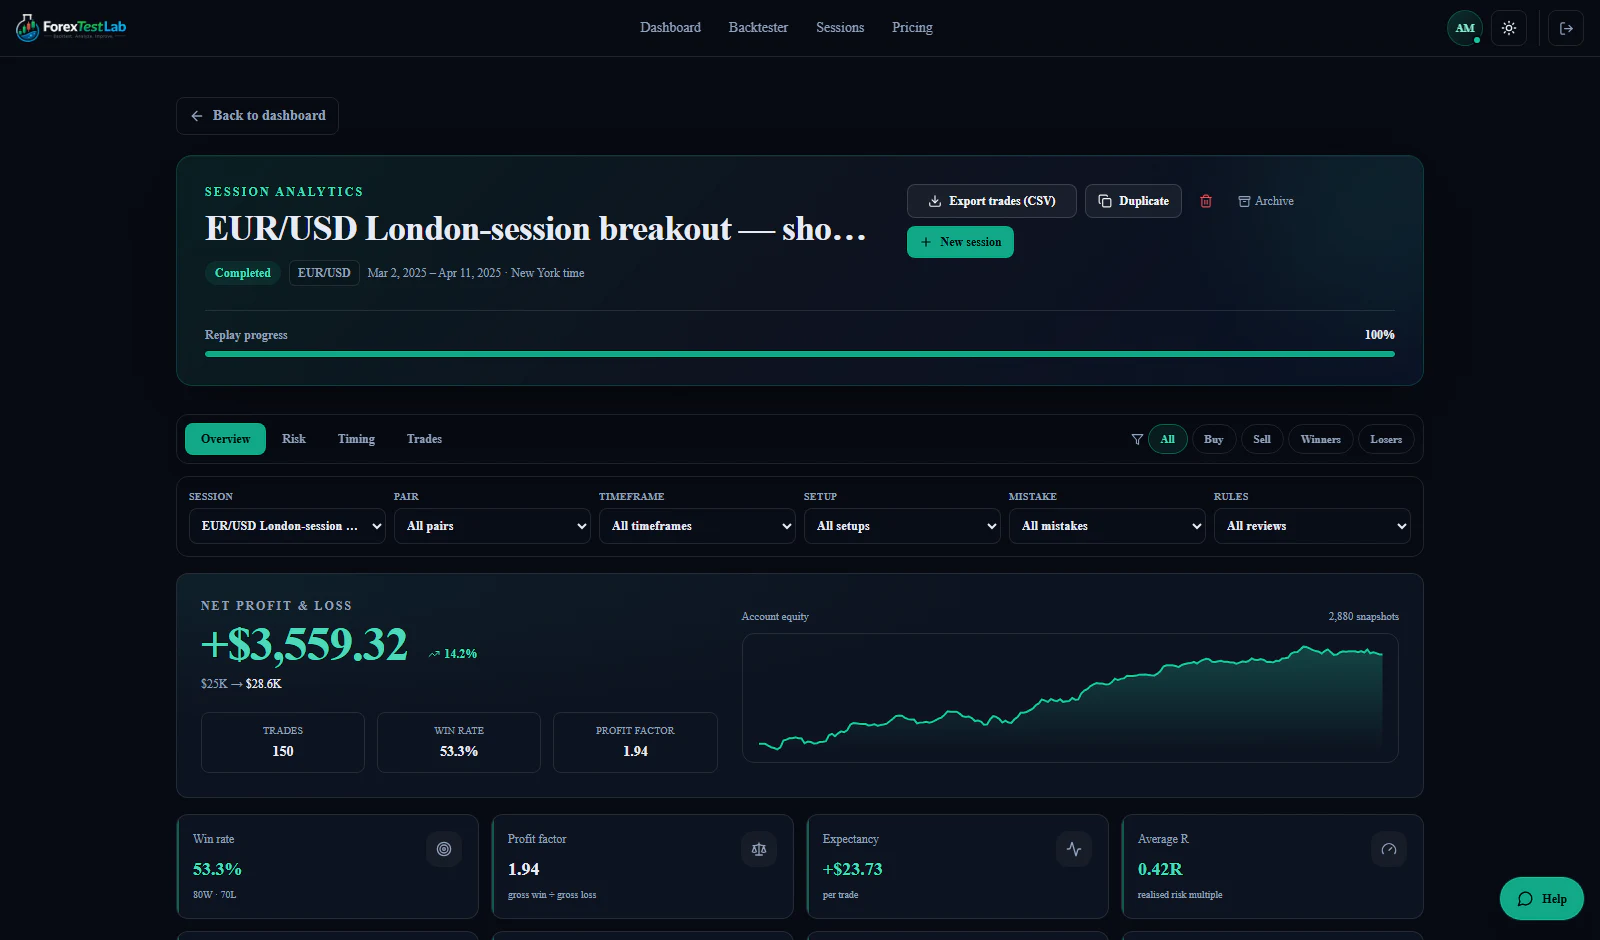
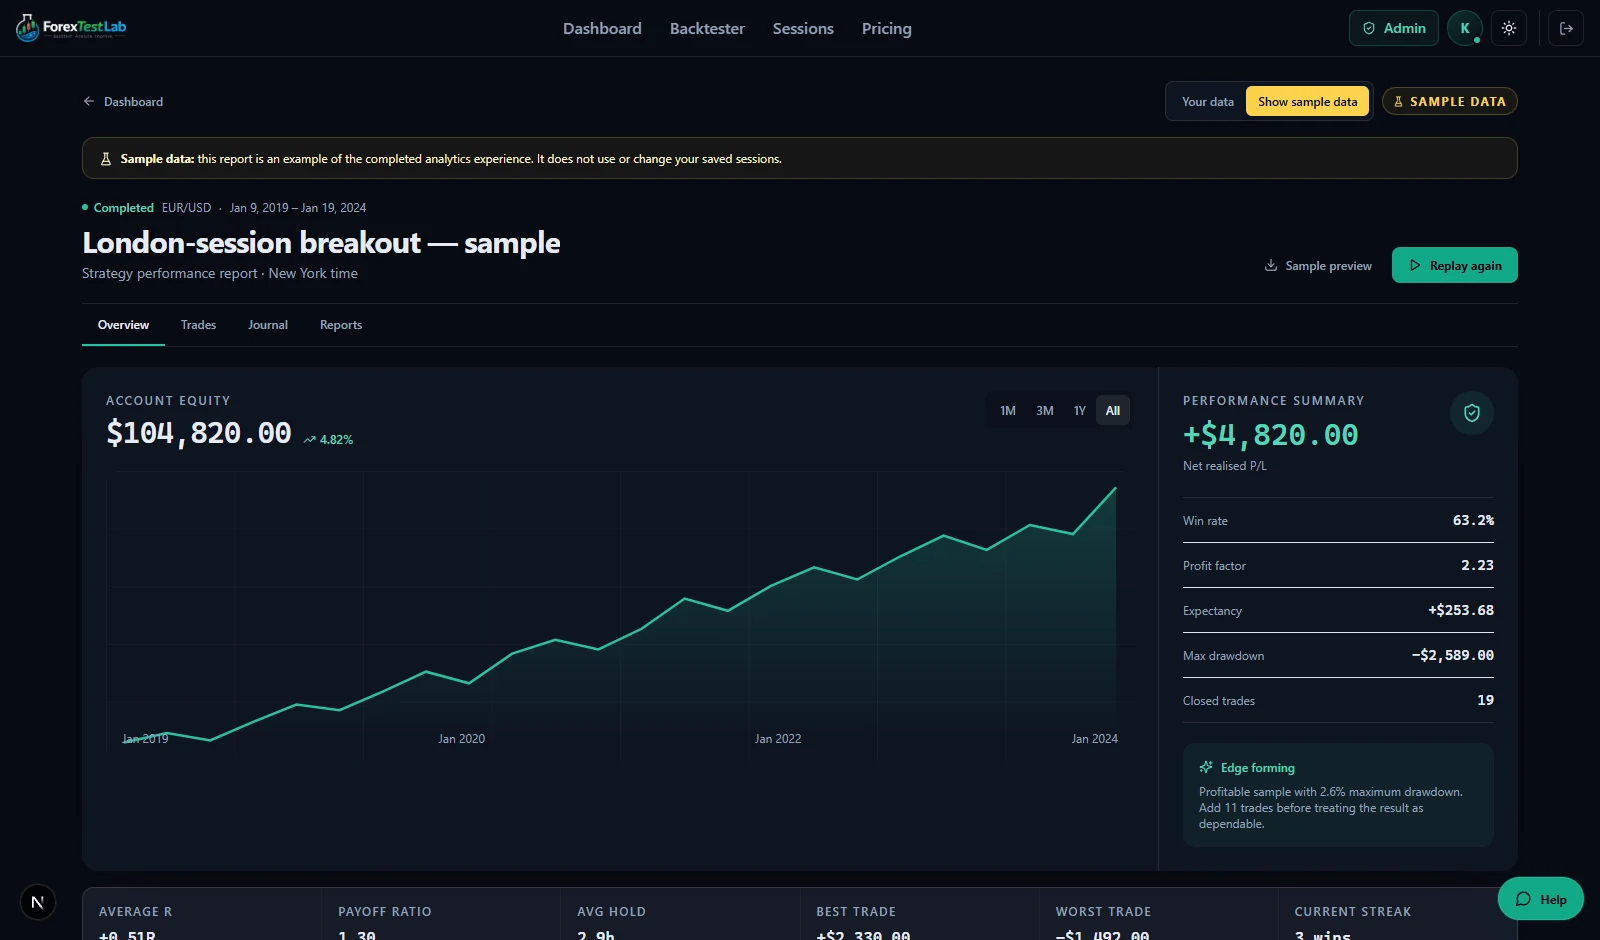
Refresh product terminology and screenshots

diff --git a/src/components/app/AnalyticsDesignPrototype.tsx b/src/components/app/AnalyticsDesignPrototype.tsx
@@ -327,7 +327,7 @@ function normalizedPath(values: number[], width = 920, height = 220) {
 function PrototypeBadge() {
   return (
     <span className="inline-flex items-center gap-1.5 rounded-full border border-amber-300/25 bg-amber-300/[0.07] px-2.5 py-1 text-[10px] font-bold uppercase tracking-[0.12em] text-amber-200">
-      <FlaskConical size={11} aria-hidden /> Demo data
+      <FlaskConical size={11} aria-hidden /> Sample data
     </span>
   );
 }
@@ -365,14 +365,14 @@ export function AnalyticsDesignPrototype({
       <div className="flex flex-wrap items-center justify-between gap-3">
         {onClose ? <button type="button" onClick={onClose} className="inline-flex items-center gap-2 text-xs font-semibold app-muted hover:text-[var(--app-text)]"><ArrowLeft size={14} aria-hidden /> Continue session</button> : <Link href="/app" className="inline-flex items-center gap-2 text-xs font-semibold app-muted hover:text-[var(--app-text)]"><ArrowLeft size={14} aria-hidden /> Dashboard</Link>}
         <div className="flex flex-wrap items-center gap-2">
-          {mode === "live" && <div className="inline-flex rounded-lg border app-border bg-[var(--app-panel)] p-1" aria-label="Analytics data source"><button type="button" onClick={() => setShowDemoData(false)} className={`rounded-md px-3 py-1.5 text-[10px] font-semibold transition-colors ${!showDemoData ? "bg-brand-500 text-surface-950" : "app-muted hover:text-[var(--app-text)]"}`}>Your data</button><button type="button" onClick={() => setShowDemoData(true)} className={`rounded-md px-3 py-1.5 text-[10px] font-semibold transition-colors ${showDemoData ? "bg-amber-300 text-surface-950" : "app-muted hover:text-[var(--app-text)]"}`}>Show demo data</button></div>}
+          {mode === "live" && <div className="inline-flex rounded-lg border app-border bg-[var(--app-panel)] p-1" aria-label="Analytics data source"><button type="button" onClick={() => setShowDemoData(false)} className={`rounded-md px-3 py-1.5 text-[10px] font-semibold transition-colors ${!showDemoData ? "bg-brand-500 text-surface-950" : "app-muted hover:text-[var(--app-text)]"}`}>Your data</button><button type="button" onClick={() => setShowDemoData(true)} className={`rounded-md px-3 py-1.5 text-[10px] font-semibold transition-colors ${showDemoData ? "bg-amber-300 text-surface-950" : "app-muted hover:text-[var(--app-text)]"}`}>Show sample data</button></div>}
           {demo ? <PrototypeBadge /> : <span className="inline-flex items-center gap-1.5 rounded-full bg-brand-400/10 px-2.5 py-1 text-[10px] font-bold uppercase tracking-[0.12em] text-brand-300"><ShieldCheck size={11} aria-hidden /> Session analytics</span>}
         </div>
       </div>
 
       {demo && <div role="note" className="mt-4 flex items-start gap-2 rounded-xl border border-amber-300/20 bg-amber-300/[0.06] px-4 py-3 text-xs text-amber-100">
         <FlaskConical size={14} className="mt-0.5 shrink-0" aria-hidden />
-        <span><strong>Demo data:</strong> this report is an example of the completed analytics experience. It does not use or change your saved sessions.</span>
+        <span><strong>Sample data:</strong> this report is an example of the completed analytics experience. It does not use or change your saved sessions.</span>
       </div>}
       {!demo && notice}
 
@@ -382,11 +382,11 @@ export function AnalyticsDesignPrototype({
             <span className={`inline-flex items-center gap-1.5 font-semibold ${demo || status === "finished" ? "text-brand-300" : "text-amber-300"}`}><i className={`h-1.5 w-1.5 rounded-full ${demo || status === "finished" ? "bg-brand-400" : "bg-amber-400"}`} /> {demo || status === "finished" ? "Completed" : "Active"}</span>
             <span>{demo ? "EUR/USD" : pairLabel}</span><span>·</span><span>{demo ? "Jan 9, 2019 – Jan 19, 2024" : periodLabel}</span>
           </div>
-          <h1 className="mt-2 truncate text-2xl font-bold tracking-[-0.025em] sm:text-3xl">{demo ? "London-session breakout — demo" : sessionName}</h1>
+          <h1 className="mt-2 truncate text-2xl font-bold tracking-[-0.025em] sm:text-3xl">{demo ? "London-session breakout — sample" : sessionName}</h1>
           <p className="mt-1 text-sm app-muted">Strategy performance report · New York time</p>
         </div>
         <div className="flex flex-wrap items-center gap-2">
-          {demo ? <span className="inline-flex h-9 items-center gap-2 rounded-lg px-3 text-xs font-semibold app-muted"><Download size={14} /> Demo preview</span> : fullAccess ? <ExportTradesButton trades={trades} symbol={symbols[0] ?? "EURUSD"} sessionId={sessionId ?? "session"} compact /> : <Link href="/account/billing" className="inline-flex h-9 items-center gap-2 rounded-lg px-3 text-xs font-semibold app-muted hover:bg-white/[0.05] hover:text-[var(--app-text)]"><Download size={14} /> Export with Pro</Link>}
+          {demo ? <span className="inline-flex h-9 items-center gap-2 rounded-lg px-3 text-xs font-semibold app-muted"><Download size={14} /> Sample preview</span> : fullAccess ? <ExportTradesButton trades={trades} symbol={symbols[0] ?? "EURUSD"} sessionId={sessionId ?? "session"} compact /> : <Link href="/account/billing" className="inline-flex h-9 items-center gap-2 rounded-lg px-3 text-xs font-semibold app-muted hover:bg-white/[0.05] hover:text-[var(--app-text)]"><Download size={14} /> Export with Pro</Link>}
           {onClose ? <button type="button" onClick={onClose} className="inline-flex h-9 items-center gap-2 rounded-lg bg-brand-500 px-4 text-xs font-bold text-surface-950 shadow-sm hover:bg-brand-400"><Play size={14} /> Continue replay</button> : <Link href={resumeHref} className="inline-flex h-9 items-center gap-2 rounded-lg bg-brand-500 px-4 text-xs font-bold text-surface-950 shadow-sm hover:bg-brand-400"><Play size={14} /> {status === "finished" ? "Replay again" : "Continue replay"}</Link>}
         </div>
       </header>
@@ -477,7 +477,7 @@ export function AnalyticsDesignPrototype({
         </main>
       )}
 
-      {tab === "trades" && <section className="mt-5 overflow-hidden rounded-2xl bg-[var(--app-panel)]"><div className="flex flex-wrap items-end justify-between gap-3 border-b app-border p-5"><div><p className="text-[10px] font-semibold uppercase tracking-[0.15em] text-brand-300">Execution ledger</p><h2 className="mt-1 text-xl font-semibold">Every closed trade</h2></div>{demo && <span className="rounded-full bg-amber-300/10 px-3 py-1 text-[10px] font-semibold text-amber-200">19 demo trades</span>}</div><TradesTable trades={demo ? DEMO_ANALYTICS_TRADES : trades} /></section>}
+      {tab === "trades" && <section className="mt-5 overflow-hidden rounded-2xl bg-[var(--app-panel)]"><div className="flex flex-wrap items-end justify-between gap-3 border-b app-border p-5"><div><p className="text-[10px] font-semibold uppercase tracking-[0.15em] text-brand-300">Execution ledger</p><h2 className="mt-1 text-xl font-semibold">Every closed trade</h2></div>{demo && <span className="rounded-full bg-amber-300/10 px-3 py-1 text-[10px] font-semibold text-amber-200">19 sample trades</span>}</div><TradesTable trades={demo ? DEMO_ANALYTICS_TRADES : trades} /></section>}
       {tab === "journal" && (demo ? <DemoJournalWorkspace /> : journalContent ?? <PrototypePlaceholder icon={NotebookPen} title="Trading journal" description="Journal entries for this session will appear here." />)}
       {tab === "reports" && <><ReportsWorkspace model={model} periodLabel={demo ? "Jan 2019 – Jan 2024" : periodLabel} />{!demo && reportFooter}</>}
     </div>
@@ -564,9 +564,9 @@ function DemoJournalWorkspace() {
   return (
     <main className="mt-5 space-y-4">
       <section className="rounded-2xl bg-[var(--app-panel)] p-4 sm:p-5">
-        <div className="flex flex-wrap items-start justify-between gap-4"><div><p className="text-[10px] font-semibold uppercase tracking-[0.15em] text-brand-300">Trading journal</p><h2 className="mt-1 text-xl font-semibold">Decision review</h2><p className="mt-1 text-xs app-muted">A realistic example of how plans, emotions, rules, and post-trade lessons appear.</p></div><span className="rounded-full bg-amber-300/10 px-3 py-1.5 text-[10px] font-semibold text-amber-200">Read-only demo</span></div>
+        <div className="flex flex-wrap items-start justify-between gap-4"><div><p className="text-[10px] font-semibold uppercase tracking-[0.15em] text-brand-300">Trading journal</p><h2 className="mt-1 text-xl font-semibold">Decision review</h2><p className="mt-1 text-xs app-muted">A realistic example of how plans, emotions, rules, and post-trade lessons appear.</p></div><span className="rounded-full bg-amber-300/10 px-3 py-1.5 text-[10px] font-semibold text-amber-200">Read-only sample</span></div>
         <div className="mt-5 grid gap-px overflow-hidden rounded-xl border app-border bg-[var(--app-border)] sm:grid-cols-3">
-          {[["Journal coverage", "19 / 19", "Every demo trade reviewed"], ["Rule adherence", `${adherence}%`, "Across all checklist items"], ["Average confidence", `${confidence.toFixed(1)} / 10`, "Confidence recorded at entry"]].map(([label, value, detail]) => <div key={label} className="bg-[var(--app-panel-2)]/60 p-4"><p className="text-[10px] font-semibold uppercase tracking-[0.12em] app-muted">{label}</p><p className="mt-2 font-mono text-xl font-semibold">{value}</p><p className="mt-1 text-[10px] app-muted">{detail}</p></div>)}
+          {[["Journal coverage", "19 / 19", "Every sample trade reviewed"], ["Rule adherence", `${adherence}%`, "Across all checklist items"], ["Average confidence", `${confidence.toFixed(1)} / 10`, "Confidence recorded at entry"]].map(([label, value, detail]) => <div key={label} className="bg-[var(--app-panel-2)]/60 p-4"><p className="text-[10px] font-semibold uppercase tracking-[0.12em] app-muted">{label}</p><p className="mt-2 font-mono text-xl font-semibold">{value}</p><p className="mt-1 text-[10px] app-muted">{detail}</p></div>)}
         </div>
       </section>
       <section className="grid gap-3 lg:grid-cols-2">

diff --git a/src/components/app/SignedInDashboard.tsx b/src/components/app/SignedInDashboard.tsx
@@ -118,7 +118,7 @@ export function SignedInDashboard({
     id: realSelectedSession?.id ?? "demo-preview",
     symbol: realSelectedSession?.symbol ?? "EURUSD",
     symbols: realSelectedSession?.symbols?.length ? realSelectedSession.symbols : ["EURUSD"],
-    name: "London-session breakout — demo",
+    name: "London-session breakout — sample",
     timeframe: realSelectedSession?.timeframe ?? "15m",
     startTime: BigInt(Date.UTC(2025, 1, 1)),
     endTime: BigInt(Date.UTC(2025, 1, 28, 23, 59)),
@@ -411,7 +411,7 @@ export function SignedInDashboard({
             className={`inline-flex h-10 items-center gap-2 rounded-lg border px-4 text-xs font-semibold transition-colors ${showDemoData ? "border-amber-300/35 bg-amber-300/[0.12] text-amber-200" : "border-brand-400/25 bg-brand-400/[0.07] text-brand-300 hover:bg-brand-400/[0.12]"}`}
             title={showDemoData ? "Return to your saved session data" : "Preview a complete dashboard with sample trades"}
           >
-            <FlaskConical size={15} aria-hidden /> {showDemoData ? "Show my data" : "Show demo data"}
+            <FlaskConical size={15} aria-hidden /> {showDemoData ? "Show my data" : "Show sample data"}
           </button>
           <Link href="/app/backtest" className={`${selectedSession ? "btn-secondary" : "btn-primary shadow-glow"} shrink-0 px-4 py-2.5 text-xs`}>
             <Plus size={16} aria-hidden /> New backtest
@@ -419,7 +419,7 @@ export function SignedInDashboard({
         </div>
       </header>
 
-      {showDemoData && <div role="note" className="mt-4 flex items-center justify-between gap-3 rounded-xl border border-amber-300/20 bg-amber-300/[0.06] px-4 py-3 text-xs text-amber-100"><span><strong>Demo data is on.</strong> The dashboard is previewing a completed strategy. Your saved sessions have not been changed.</span><button type="button" onClick={() => setShowDemoData(false)} className="shrink-0 font-semibold underline underline-offset-2">Use my data</button></div>}
+      {showDemoData && <div role="note" className="mt-4 flex items-center justify-between gap-3 rounded-xl border border-amber-300/20 bg-amber-300/[0.06] px-4 py-3 text-xs text-amber-100"><span><strong>Sample data is on.</strong> The dashboard is previewing a completed strategy. Your saved sessions have not been changed.</span><button type="button" onClick={() => setShowDemoData(false)} className="shrink-0 font-semibold underline underline-offset-2">Use my data</button></div>}
 
       {!selectedSession ? (
         <section className="relative mt-7 overflow-hidden rounded-3xl border border-brand-400/20 bg-[linear-gradient(135deg,rgba(34,195,160,0.12),var(--app-panel)_48%,rgba(59,107,255,0.09))] p-6 shadow-card sm:p-9">
@@ -504,7 +504,7 @@ export function SignedInDashboard({
                   </div>
                 </div>
                 <div className="flex shrink-0 flex-wrap items-center gap-2">
-                  {showDemoData ? realSelectedSession && <Link href={`/app/results/${realSelectedSession.id}?demo=1`} className="inline-flex h-9 items-center gap-2 rounded-lg bg-brand-500 px-4 text-xs font-bold text-surface-950 shadow-sm hover:bg-brand-400">Open full demo analytics <ArrowRight size={14} aria-hidden /></Link> : <><DashboardSessionSwitcher selectedId={selectedSession.id} sessions={sessionOptions} /><SessionCardActions sessionId={selectedSession.id} sessionName={scopeLabel} status={selectedSession.status} archived={selectedSession.archived} compact command /></>}
+                  {showDemoData ? realSelectedSession && <Link href={`/app/results/${realSelectedSession.id}?demo=1`} className="inline-flex h-9 items-center gap-2 rounded-lg bg-brand-500 px-4 text-xs font-bold text-surface-950 shadow-sm hover:bg-brand-400">Open full sample analytics <ArrowRight size={14} aria-hidden /></Link> : <><DashboardSessionSwitcher selectedId={selectedSession.id} sessions={sessionOptions} /><SessionCardActions sessionId={selectedSession.id} sessionName={scopeLabel} status={selectedSession.status} archived={selectedSession.archived} compact command /></>}
                 </div>
               </div>
 

diff --git a/src/app/admin/sessions/page.tsx b/src/app/admin/sessions/page.tsx
@@ -78,7 +78,7 @@ export default async function AdminSessionsPage(props: { searchParams: Promise<{
                   <td className={adminTd}><AdminStatus value={session.status} /></td>
                   <td className={adminTd}><div className="h-1.5 w-28 overflow-hidden rounded-full bg-white/10"><div className="h-full rounded-full bg-brand-400" style={{ width: `${progress}%` }} /></div><p className="mt-1.5 text-[11px] app-muted">{progress.toFixed(0)}%</p></td>
                   <td className={adminTd}><p>{session._count.trades} trades</p><p className="mt-1 text-xs app-muted">{session._count.orders} orders</p></td>
-                  <td className={adminTd}><p className="text-xs capitalize">{session.dataSource.replaceAll("-", " ")}</p>{session.demoData && <p className="mt-1 text-[11px] text-amber-300">Demo data</p>}</td>
+                  <td className={adminTd}><p className="text-xs capitalize">{session.dataSource.replaceAll("-", " ")}</p>{session.demoData && <p className="mt-1 text-[11px] text-amber-300">Sample data</p>}</td>
                   <td className={`${adminTd} text-xs app-muted`}>{formatNewYorkDateTime(session.updatedAt)}</td>
                 </tr>
               );

diff --git a/src/components/app/SessionSetup.tsx b/src/components/app/SessionSetup.tsx
@@ -522,13 +522,13 @@ export function SessionSetup({ onStart, busy, error, entitlements }: SessionSetu
                 onSelect={() => setChallengePreset(null)}
               />
               <ModeCard
-                title="FTMO Challenge"
+                title="Prop firm challenge"
                 detail="Phase 1 - 10% target"
                 selected={challengePreset === "ftmo-phase-1"}
                 onSelect={() => setChallengePreset("ftmo-phase-1")}
               />
               <ModeCard
-                title="FTMO Verification"
+                title="Prop firm verification"
                 detail="Phase 2 - 5% target"
                 selected={challengePreset === "ftmo-phase-2"}
                 onSelect={() => setChallengePreset("ftmo-phase-2")}

diff --git a/src/components/app/useBacktester.ts b/src/components/app/useBacktester.ts
@@ -315,7 +315,7 @@ export function useBacktester(resumeSessionId: string | null = null) {
         busy: false,
         error: null,
         notice: normalizedState.demoData
-          ? "This session uses generated demonstration data and does not represent an actual market feed."
+          ? "This session uses generated sample data and does not represent an actual market feed."
           : null,
         notes: "",
         activeSymbol: normalizedState.config.symbol,

diff --git a/src/lib/backtest/session-store.ts b/src/lib/backtest/session-store.ts
@@ -490,7 +490,7 @@ export async function createSession(
   const demoData = source === "demo";
   if (!params.userId && !demoData) {
     throw new Error(
-      "Create a free account to use saved historical market data. Anonymous access is demonstration-only.",
+      "Create a free account to use saved historical market data. Anonymous access uses sample data only.",
     );
   }
   const contextCandles = await fetchChartContext(

diff --git a/src/lib/market-data/types.ts b/src/lib/market-data/types.ts
@@ -199,4 +199,4 @@ export interface MarketDataProvider {
 
 /** Human-readable notice attached to synthetic data. */
 export const DEMO_DATA_LABEL =
-  "Demonstration data generated for software testing. It is not live market data.";
+  "Sample data generated for software testing. It is not live market data.";
